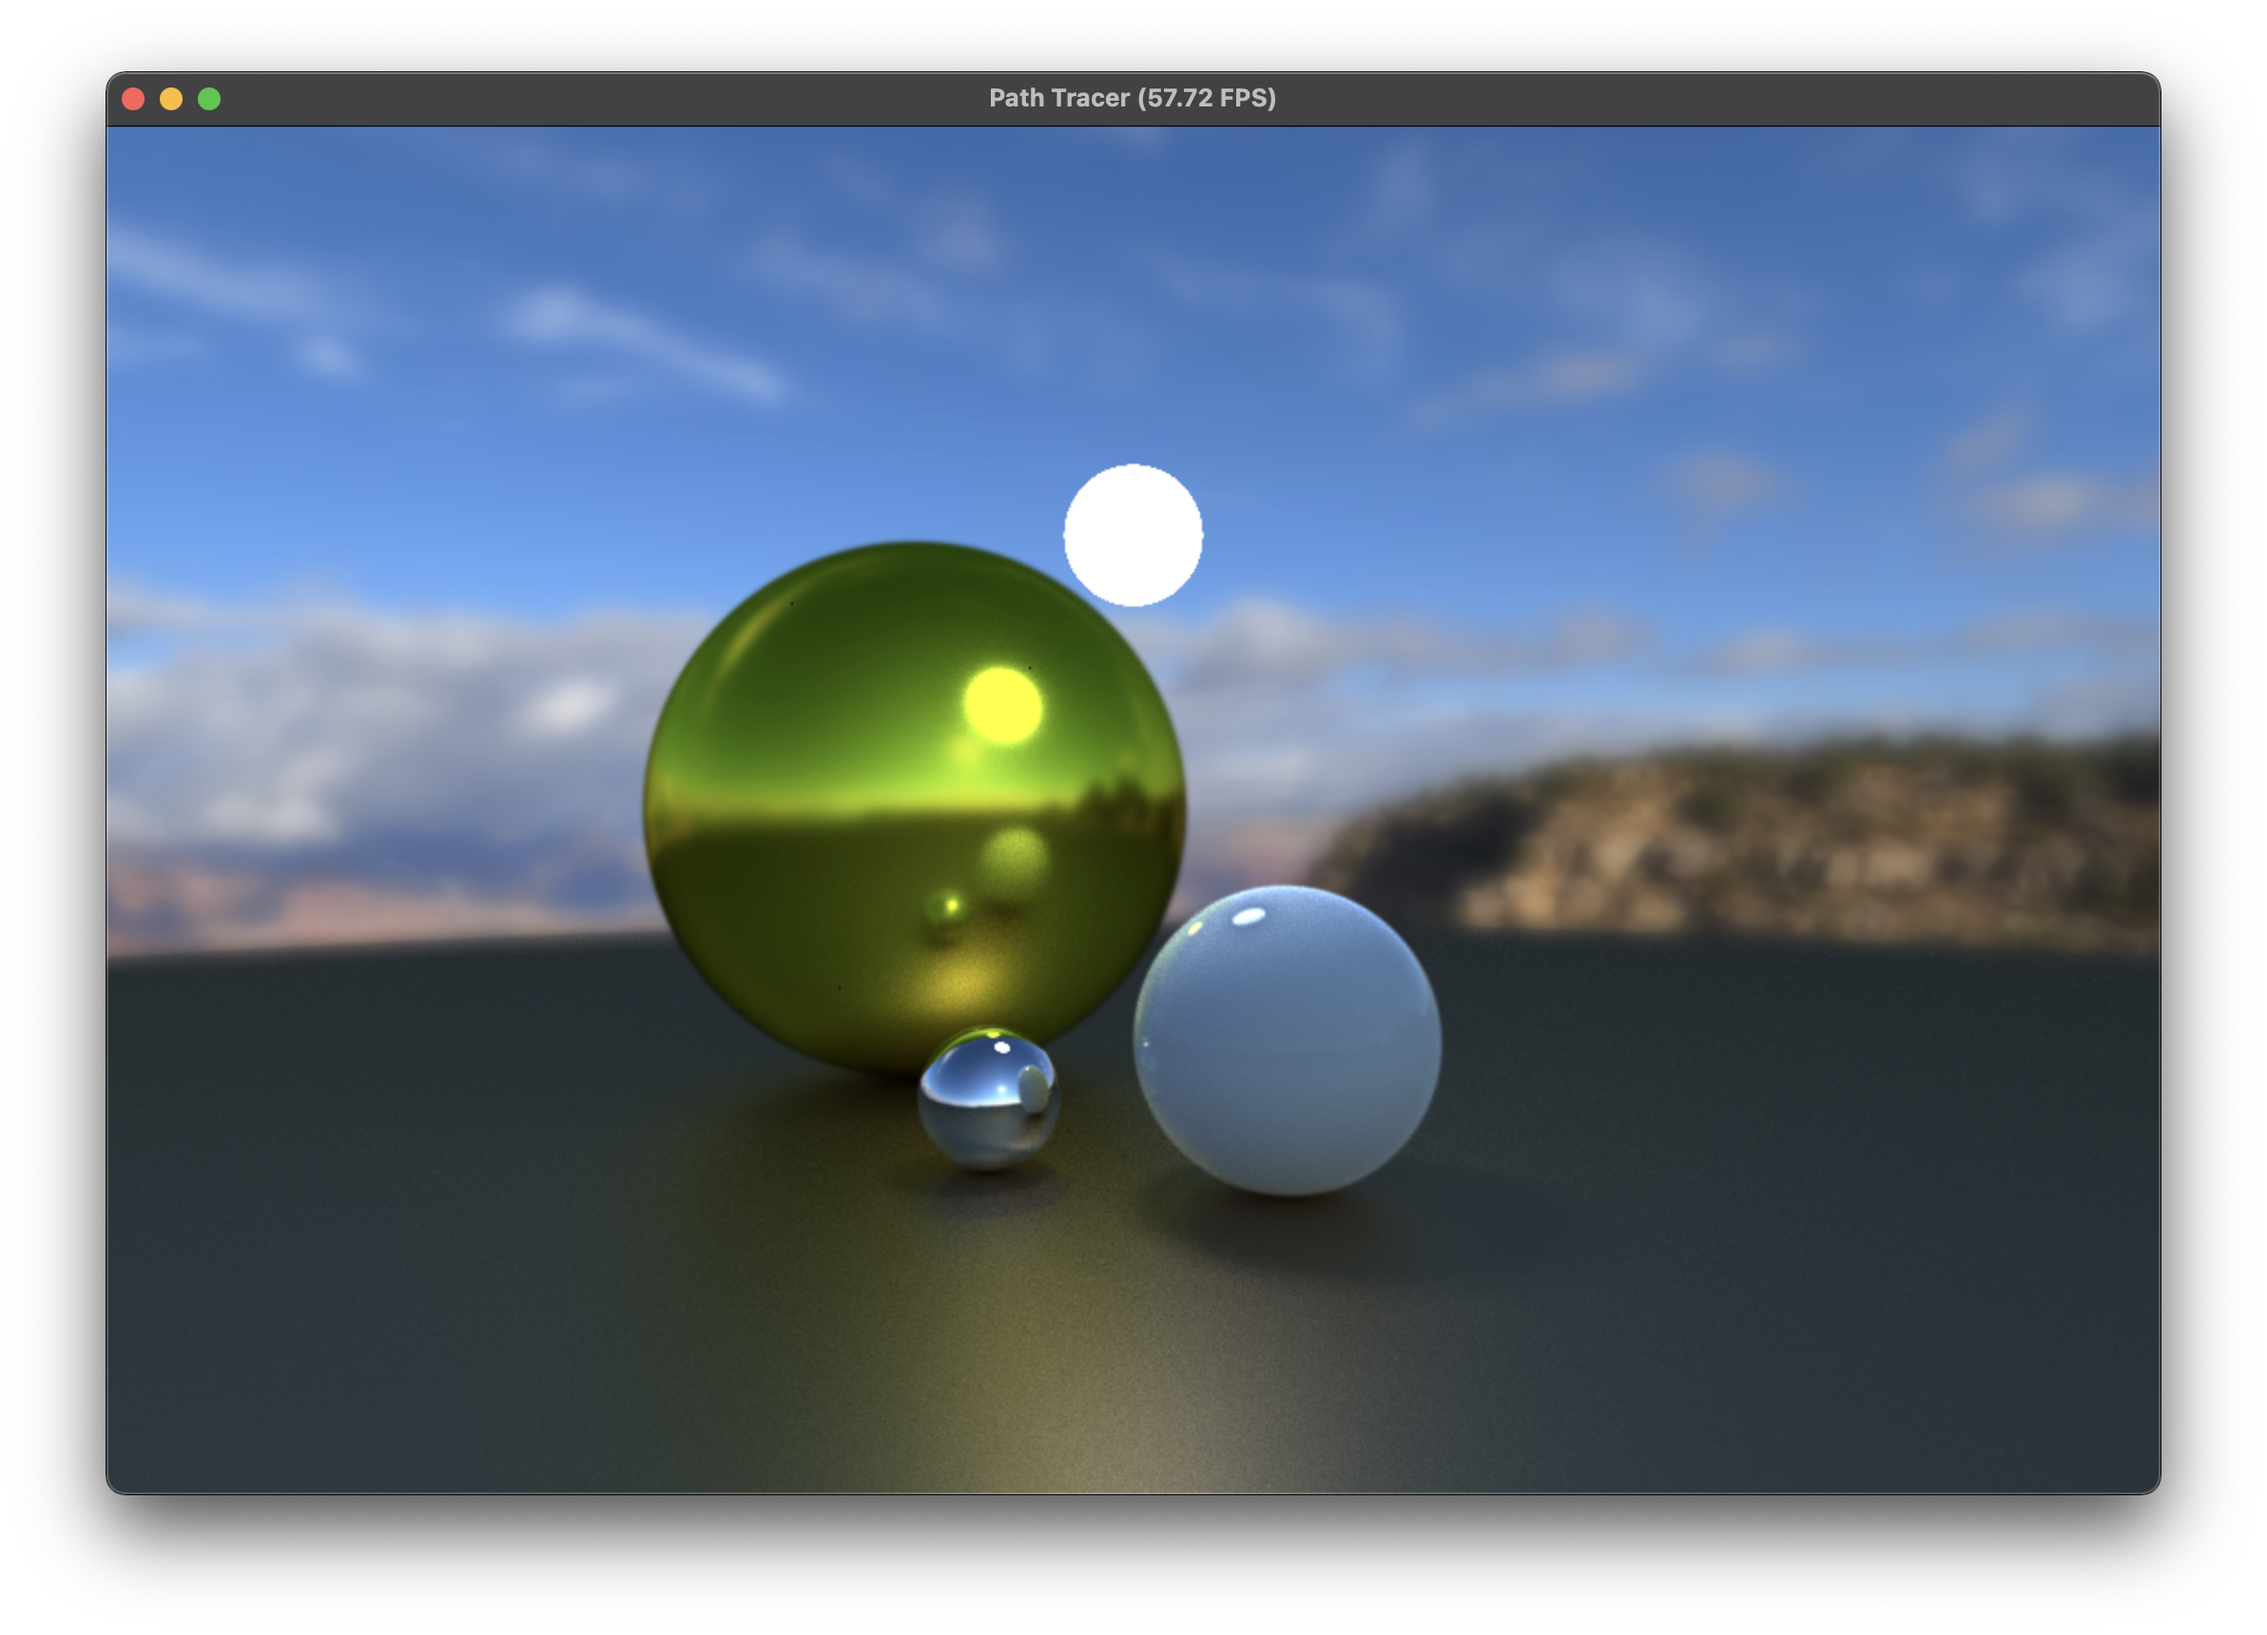
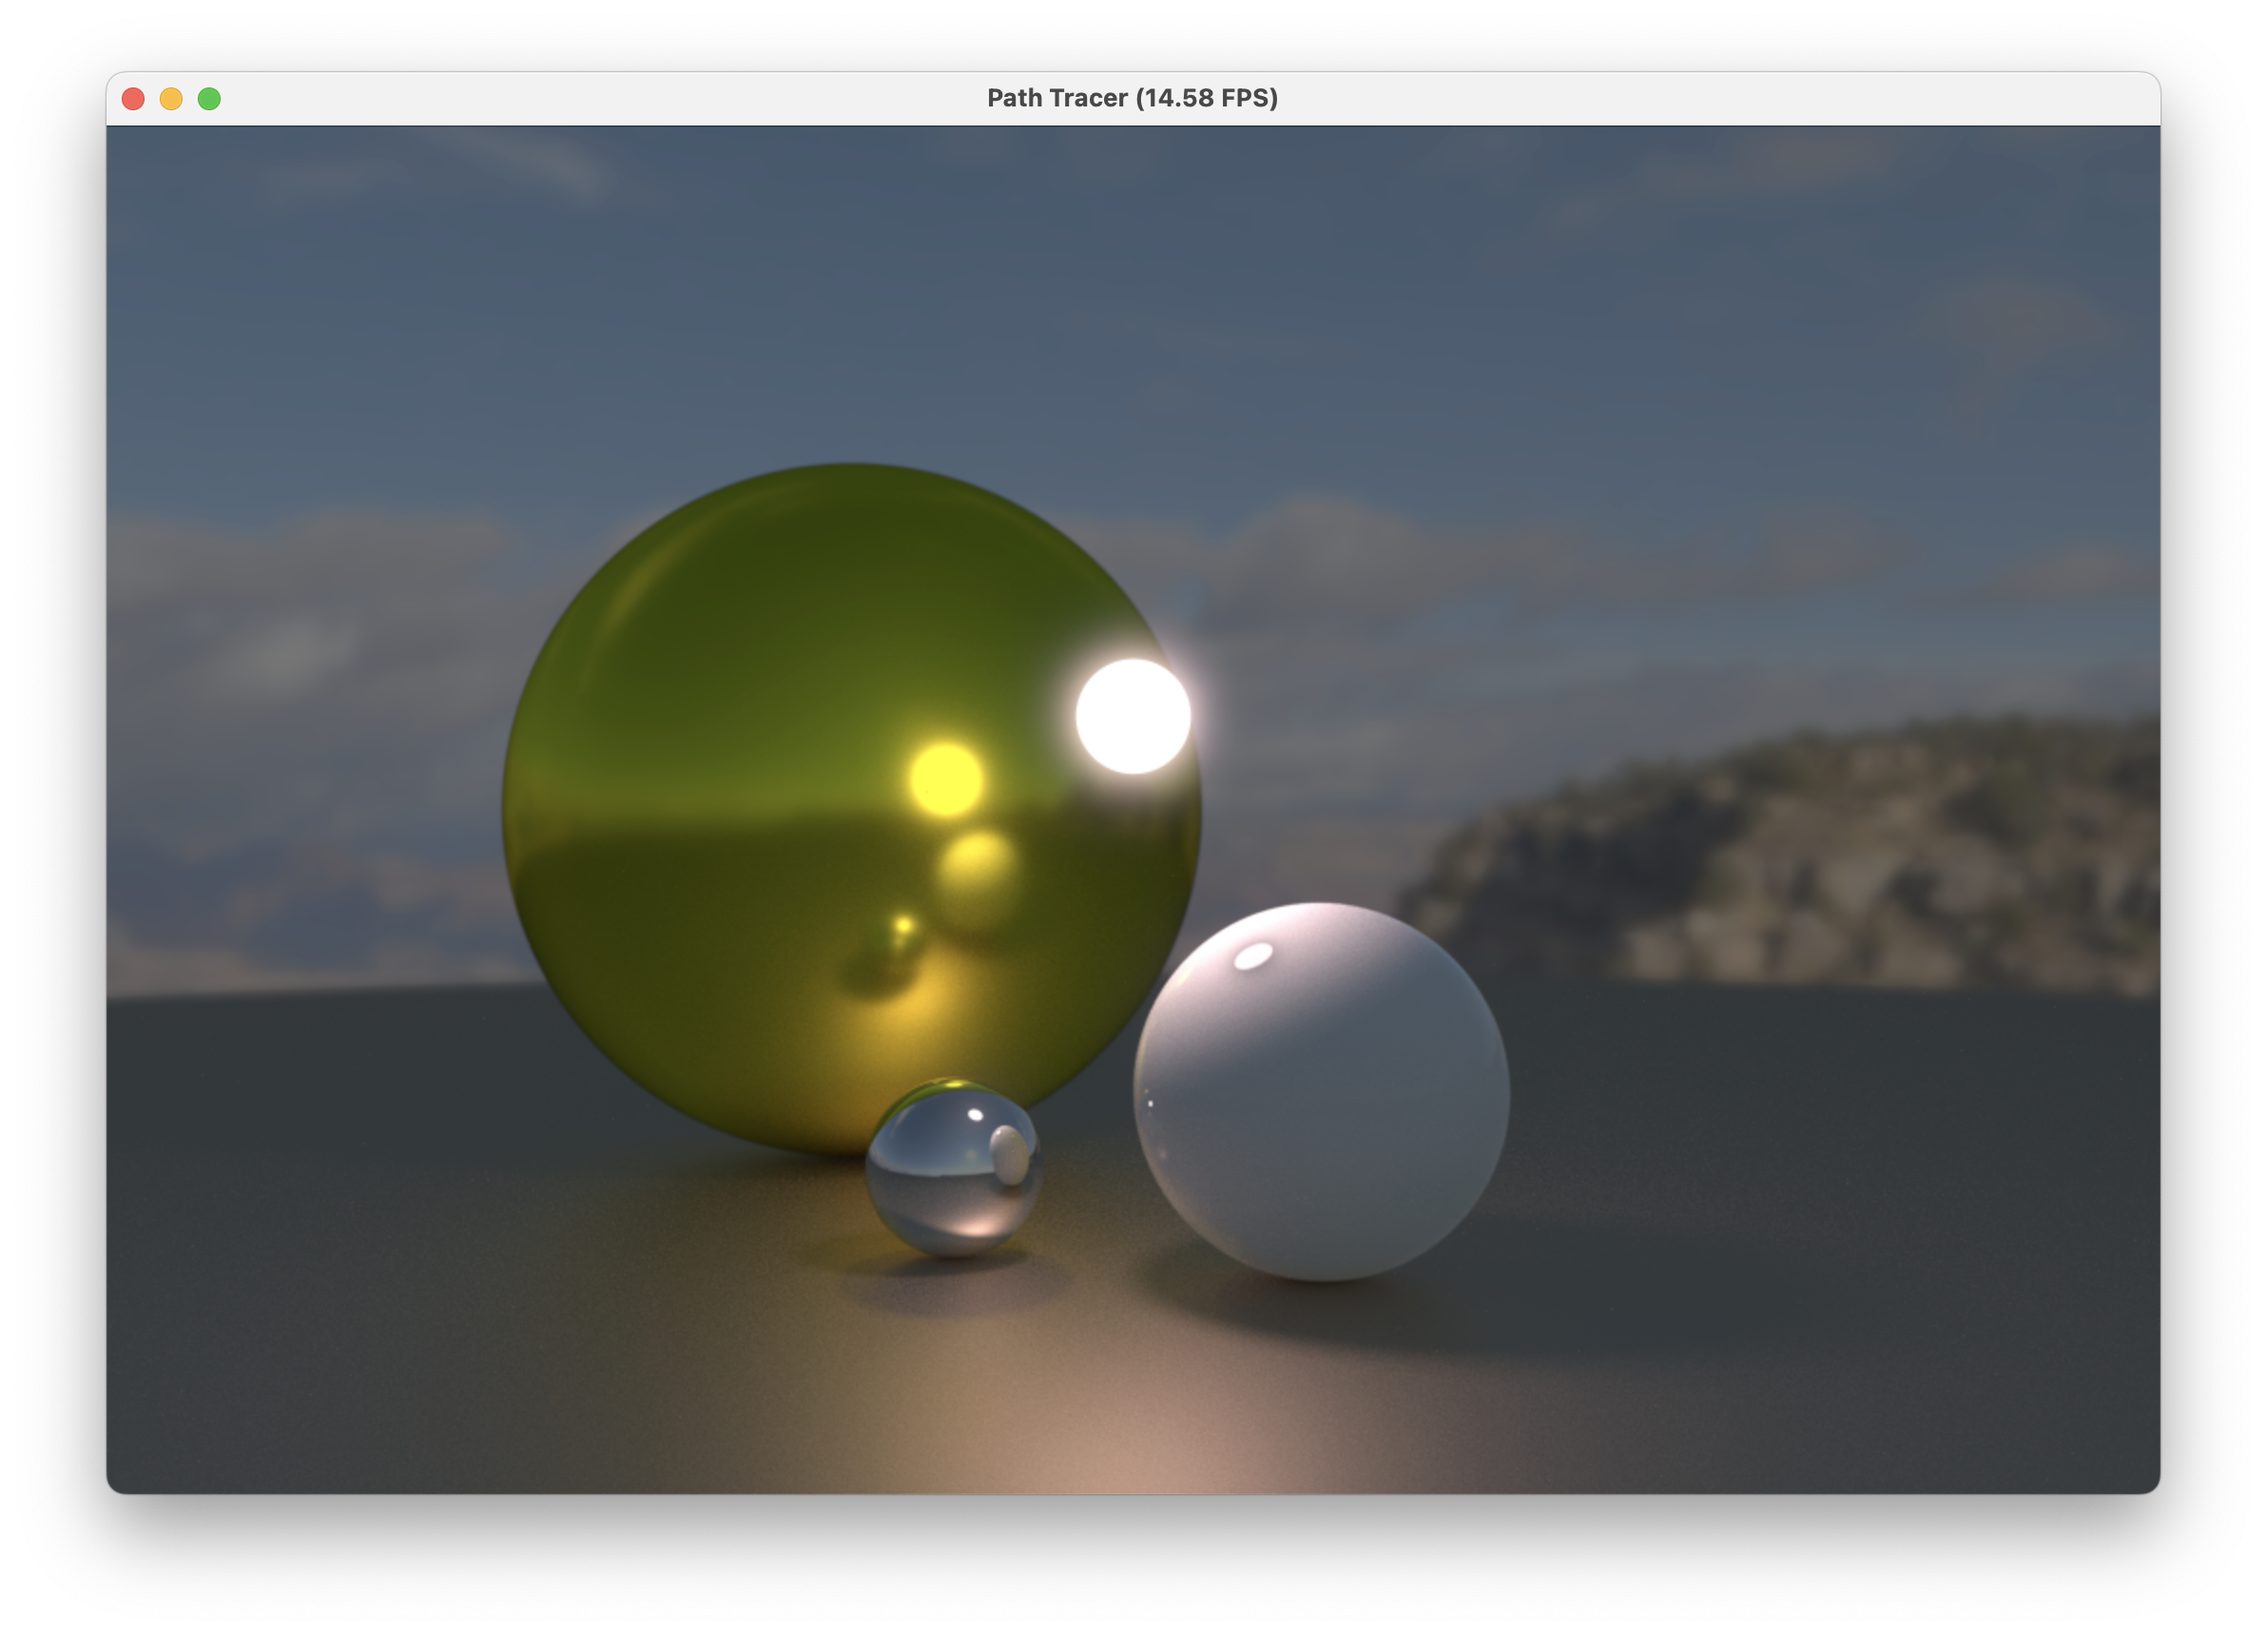
add bloom effect for hdr output/anti-aliasing done right

diff --git a/pt.py b/pt.py
@@ -5,7 +5,8 @@ import math
 ti.init(arch=ti.gpu)
 
 inf = 1e10
-eps = 1e-3
+eps = 1e-4
+max_luminance = 100
 
 class Image:
     def __init__(self, path):
@@ -20,15 +21,23 @@ class Image:
 @ti.func
 def tex2d(tex_field, uv):
     tex_w, tex_h = tex_field.shape[0:2]
-    p = uv * ti.Vector([tex_w - 1, tex_h - 1])
-    l = ti.floor(p)
+    p = uv * ti.Vector([tex_w, tex_h])
+    l = int(ti.floor(p))
     t = p - l
 
     # bilinear interp
     return (
-        ((tex_field[p] * (1 - t[0])) +
-         tex_field[p + ti.Vector([1, 0])] * t[0]) * (1 - t[1])
-        + (tex_field[p + ti.Vector([1, 0])] * (1 - t[0]) + tex_field[p + ti.Vector([1, 1])] * t[0]) * t[1])
+        ((tex_field[l] * (1 - t[0])) + tex_field[l + ti.Vector([1, 0])] * t[0]) * (1 - t[1])
+        + (tex_field[l + ti.Vector([0, 1])] * (1 - t[0]) + tex_field[l + ti.Vector([1, 1])] * t[0]) * t[1]) / 255.0
+    
+def gaussian_kernel(l=5, sig=1.):
+    """\
+    creates gaussian kernel with side length `l` and a sigma of `sig`
+    """
+    ax = np.linspace(-(l - 1) / 2., (l - 1) / 2., l, dtype=np.single)
+    gauss = np.exp(-0.5 * np.square(ax) / np.square(sig), dtype=np.single)
+    kernel = np.outer(gauss, gauss)
+    return kernel / np.sum(kernel)
 
 
 @ti.data_oriented
@@ -82,32 +91,50 @@ class Spheres:
 
 width, height = 1080, 720
 
-linear_pixel = ti.Vector.field(3, dtype=float, shape=(width, height))
-pixel = ti.Vector.field(3, dtype=float, shape=(width, height))
+super_samples = 2
+
+ss_width = width * super_samples
+ss_height = height * super_samples
+
+linear_pixel = ti.Vector.field(3, dtype=ti.f32, shape=(ss_width, ss_height))
+error_raycounters = ti.Vector.field(2, dtype=ti.f32, shape=(ss_width, ss_height))
+bloom_pixel = ti.Vector.field(3, dtype=ti.f32, shape=(ss_width, ss_height))
+pixel = ti.Vector.field(3, dtype=ti.f32, shape=(width, height))
+
+gaussian_kernel_size = 9
+bloom_strength = 0.05
+ambient_weight = 0.2
+start_cursor = [0.0, 0.0]
+
+
+
+blur_kernel = ti.field(ti.f32, shape=(gaussian_kernel_size, gaussian_kernel_size))
+blur_kernel.from_numpy(gaussian_kernel(gaussian_kernel_size, 1.))
+
 spheres = Spheres()
 skybox = Image('skybox.jpg')  # z > 0
 
 
 last_camera_pos = ti.field(ti.f32, 3)
 camera_pos = ti.field(ti.f32, 3)
-focal_length = ti.field(ti.f32, 1)
+focal_length = ti.field(ti.f32, shape=())
 
 spheres.from_numpy(
     center_radius=np.array([
         [-2., 0.0, -3., 2.5],
         [1.0, -1.5, 1.0, 1.],
-        [0.0, 2., 0., 0.5],
+        [0.0, 0.5, 1.0, 0.3],
         [0.0, -500., 0., 497.5],
         [-1, -2.0, 0.5, 0.5]]).astype(np.float32),
     albedos=np.array([[1.0, 1.0, 0.0],
                       [1.0, 1.0, 1.0],
-                      [0.0, 0.0, 0.0],
+                      [1.0, 1.0, 1.0],
                       [1.0, 0.8, 0.6],
                       [1.0, 1.0, 1.0]]).astype(np.float32),
-    emissions=np.array([[0, 0, 0], [0, 0, 0], [15, 15, 15], [
+    emissions=np.array([[0, 0, 0], [0, 0, 0], [3, 2, 2], [
                        0, 0, 0], [0, 0, 0]]).astype(np.float32),
     roughness=np.array([0.2, 0.0, 0.0, 0.5, 0.0]).astype(np.float32),
-    metallics=np.array([1.0, 0.0, 0.8, 0.9, 1.0]).astype(np.float32),
+    metallics=np.array([1.0, 0.0, 0.8, 0.95, 1.0]).astype(np.float32),
     iors=np.array([2.495, 1.4, 2.0, 2.90, 2.5]).astype(np.float32),
 )
 
@@ -234,17 +261,6 @@ def luma(albedo):
     return max(albedo[0], albedo[1], albedo[2])
 
 
-@ ti.func
-def halton(b, i):
-    r = 0.0
-    f = 1.0
-    while i > 0:
-        f = f / float(b)
-        r = r + f * float(i % b)
-        i = int(ti.floor(float(i) / float(b)))
-    return r
-
-
 gui = ti.GUI("Path Tracer", res=(width, height))
 
 
@@ -252,20 +268,18 @@ gui = ti.GUI("Path Tracer", res=(width, height))
 def trace(sample: ti.u32):
     for i, j in linear_pixel:
         o = ti.Vector([camera_pos[0], camera_pos[1], camera_pos[2]])
-        aperture_size = 0.2
+        aperture_size = 0.1
         forward = -o.normalized()
 
         u = ti.Vector([0.0, 1.0, 0.0]).cross(forward).normalized()
         v = forward.cross(u).normalized()
         u = -u
-        # anti aliasing
-        d = ((i + ti.random() - width / 2.0) / width * u * 1.5
-             + (j + ti.random() - height / 2.0) / width * v * 1.5
-             + width / width * forward).normalized()
 
-        focal_point = d * focal_length[0] / d.dot(forward) + o
+        d = ((i + ti.random() - ss_width / 2.0) / ss_width * u
+             + (j + ti.random() - ss_height / 2.0) / ss_width * v
+             + ss_width / ss_width * forward).normalized()
 
-        o += d * 0.01
+        focal_point = d * focal_length[None] / d.dot(forward) + o
 
         # assuming a circle-like aperture
         phi = 2.0 * math.pi * ti.random()
@@ -285,6 +299,7 @@ def trace(sample: ti.u32):
                 p = sp[0] * d + o
                 c_ = spheres.center_radius[sp_index]
                 c = ti.Vector([c_[0], c_[1], c_[2]])
+                radius = c_[3]
                 n = (p - c).normalized()
                 wo = -d
                 albedo = spheres.albedos[sp_index]
@@ -295,7 +310,7 @@ def trace(sample: ti.u32):
                 f0 = f0 * f0
                 f0 = lerp(f0, luma(albedo), metallic)
                 wi = reflect(-wo, n)
-                radiance += spheres.emissions[sp_index] * albedo_factor
+                radiance += spheres.emissions[sp_index] / (radius * radius) * albedo_factor
 
                 view_fresnel = schlick2(wo, n, f0)
                 sample_weights = ti.Vector([1.0 - view_fresnel, view_fresnel])
@@ -335,15 +350,34 @@ def trace(sample: ti.u32):
                 o = p + eps * d
 
             else:
-                radiance += albedo_factor * tex2d(skybox.field, uv) / 255
+                radiance += albedo_factor * (tex2d(skybox.field, uv)) * ambient_weight
                 break
-
-        linear_pixel[i, j] = (linear_pixel[i, j] *
-                              (sample - 1) + radiance) / sample
-        pixel[i, j] = ti.pow(linear_pixel[i, j], 1.0/2.2)
-
-
-start_cursor = [0.0, 0.0]
+        linear_color = radiance
+        linear_pixel[i, j] = (linear_pixel[i, j] * (sample - 1) + linear_color) / sample
+        
+        luminance = radiance.dot(ti.Vector([0.2126, 0.7152, 0.0722]))
+        if luminance < max_luminance:
+            if (luminance > 1.0):
+                bloom_pixel[i, j] = (bloom_pixel[i, j] * (sample - 1) + linear_color) / sample
+            else:
+                bloom_pixel[i, j] = (bloom_pixel[i, j] * (sample - 1)) / sample
+        
+        
+    for i, j in bloom_pixel:
+        hdr_blur = ti.Vector([0.0, 0.0, 0.0])
+        for kx in ti.ndrange(gaussian_kernel_size):
+            for ky in ti.ndrange(gaussian_kernel_size):
+                hdr_blur += bloom_pixel[i + kx - gaussian_kernel_size // 2, j + ky - gaussian_kernel_size // 2] * blur_kernel[kx, ky]
+        
+        bloom_pixel[i, j] = hdr_blur
+    
+    for i, j in pixel:
+        pixel[i, j] = ti.Vector([0.0, 0.0, 0.0])
+        for sx in ti.ndrange(super_samples):
+            for sy in ti.ndrange(super_samples):
+                x = i * super_samples + sx
+                y = j * super_samples + sy
+                pixel[i, j] += min(pow(linear_pixel[x, y] + bloom_pixel[x, y] * bloom_strength, 1.0 / 2.2), 1.0) / (super_samples * super_samples)
 
 
 def try_reset(t):
@@ -377,7 +411,7 @@ def try_reset(t):
         if e.key == gui.WHEEL:
             dt = e.delta[1] / 1000.0
             if gui.is_pressed(gui.SHIFT):
-                focal_length[0] *= (1.0 + dt)
+                focal_length[None] *= (1.0 + dt)
             else:
                 for i in range(3):
                     camera_pos[i] *= (1.0 + dt)
@@ -388,20 +422,30 @@ def try_reset(t):
 # Initialize the camera
 sample = 0
 t = 1
-focal_length[0] = 10.0
-last_camera_pos[2] = focal_length[0]
-camera_pos[2] = focal_length[0]
+focal_length[None] = 12.0
+last_camera_pos[2] = focal_length[None]
+camera_pos[2] = focal_length[None]
+
+print("Start tracing...")
+print("0 spp")
 
 while True:
-    if sample % 64 == 0:
-        print(sample, " spp")
 
     if try_reset(t):
+        if sample > 1:
+            print ("\033[A                             \033[A")
+            print("Camera moved, restart tracing...")
+            print("0 spp")
         sample = 0
         linear_pixel.fill(0)
+        bloom_pixel.fill(0)
+
+    print ("\033[A                             \033[A")
+    print(f"[{sample * (super_samples * super_samples)} spp]" )
 
     sample += 1
     trace(sample)
     t += 1
-    gui.set_image(linear_pixel)
+    gui.set_image(pixel)
     gui.show()
+    

diff --git a/README.md b/README.md
@@ -15,7 +15,8 @@ A progressive path tracer written in [taichi](https://github.com/taichi-dev/taic
 * Multiple Importance Sampling
   * Balance heuristic 
   * Cosine-weighted pdf
-  * ggx normal weighted pdf 
+  * ggx normal weighted pdf
+* Bloom effect 
 * Gamma correction of final result
 
 The 5 balls in the scene are:
@@ -33,4 +34,5 @@ python3 pt.py
 
 and you a ready to go.
 
-Zoom in/out, press and drag the mouse to see a interactive result
+Scroll mouse to zoom in/out, press and drag the mouse to see a interactive result.
+You can also press shift while scrolling mouse to change the focal length of the camera.
